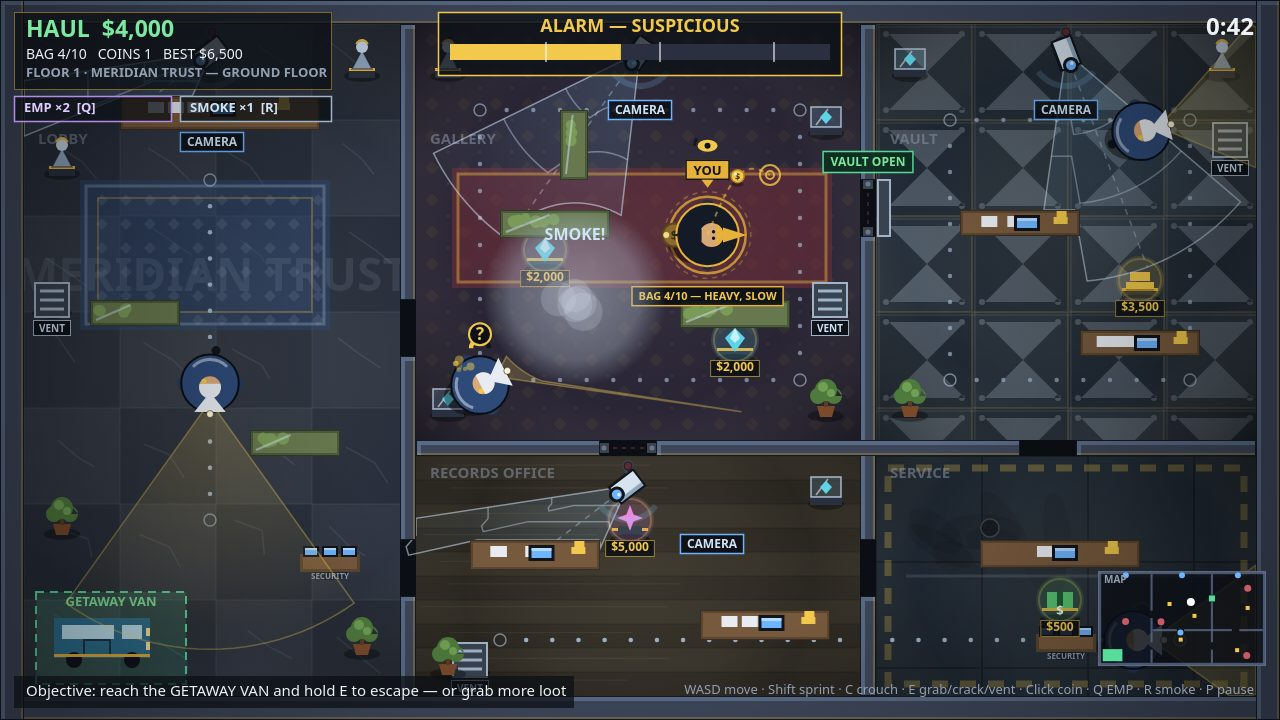
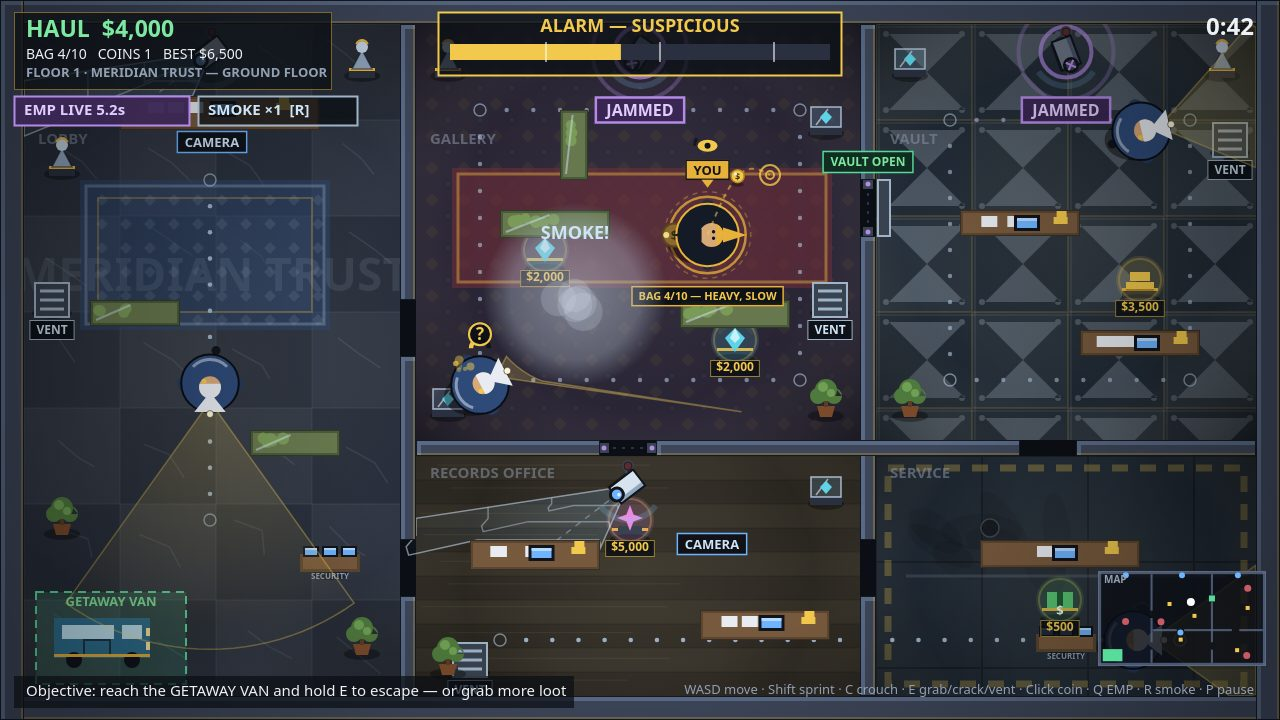
VAULT ZERO round 9: EMP proven on the cover (EMP LIVE 5.2s chip, gallery+vault cameras JAMMED with big violet pills and pulse rings while lobby/office cameras still sweep, smoke still in effect, loot tags clear), getaway payoff restored without a modal (extract restaged to the payoff moment: vent-sl

diff --git a/game/src/shots.js b/game/src/shots.js
@@ -37,7 +37,10 @@ function aimCamera(world, index, offset) {
  * toward a gem case, heavy bag on his back, a coin arcing toward the gallery guard who
  * is already investigating the first coin ("?" up), cameras sweeping overhead with their
  * cones pointed away, loot on the vault racks, and the alarm meter at SUSPICIOUS.
- * The thief is in NO cone: he reads as crossing, not caught.
+ * The thief is in NO cone: he reads as crossing, not caught. Both tools are proven
+ * IN EFFECT in this one frame: the smoke cloud hangs on the crossing, and the EMP
+ * jammer is LIVE — the gallery and vault cameras wear big JAMMED pills with violet
+ * pulse rings while the lobby and office cameras still sweep.
  */
 function stageCover(world) {
   world.loadLevel(0);
@@ -78,6 +81,14 @@ function stageCover(world) {
   world.setAlarm(45);
   world.state.floaters = world.state.floaters.filter((f) => f.text === 'SMOKE!');
   run(world, 1);
+  // The EMP jammer fired to cover the crossing: the chip counts down (EMP LIVE
+  // 5.2s) and the two cameras watching the gallery/vault lanes are JAMMED — big
+  // violet pills, pulse rings, dead lenses — while the lobby and office cameras
+  // still sweep, so the frame keeps live camera cones AND the tool in effect.
+  world.setTools(1, 1);
+  world.fireEmp(5.2);
+  world.setCameraJammed(0, false); // lobby camera still sweeping
+  world.setCameraJammed(3, false); // office camera still sweeping
   return { screen: SCREEN_PLAY, best: 6500, rating: null };
 }
 
@@ -134,11 +145,13 @@ function stageCrack(world) {
 }
 
 /**
- * EXTRACT — the getaway in motion, on floor 2: the annex core cracked and emptied
- * ($14,000 in the bag), the EMP jammer LIVE — every camera JAMMED with violet pulse
- * rings, the doorway lasers dead grey — and the thief mid-vent-slip, emerging from
- * the west corridor grate (duct trail still drawn to the east grate he came from)
- * on his way to the van. Pure gameplay: tools proven in effect, no report panel.
+ * EXTRACT — the getaway payoff, on floor 2: the annex core cracked and emptied
+ * ($14,000 in the bag), the thief vent-slips from the east corridor to the west
+ * (duct trail + chevrons between the grates), fires the EMP jammer for the last
+ * leg — every camera JAMMED with violet pulse rings, the doorway lasers dead
+ * grey — and holds E at the GETAWAY VAN until the extraction completes. The
+ * frame is the payoff moment itself: thief at the van, CLEAN GETAWAY banner
+ * over live gameplay (haul secured + ghost rating), no report panel.
  */
 function stageExtract(world) {
   world.loadLevel(1);
@@ -152,6 +165,9 @@ function stageExtract(world) {
   // Guards held far off the west corridor, cones pointed away from the getaway line.
   world.setGuard(0, 640, 120, 0, 0.0, 'patrol'); // top corridor, cone east
   world.setGuard(1, 1130, 620, Math.PI, 0.0, 'patrol'); // bottom corridor, cone west (far east)
+  world.state.guards[1].wpIndex = 1; // waypoint at his feet: scans in place, never walks at the van
+  world.state.guards[1].scanBase = Math.PI;
+  world.state.guards[1].lookTimer = 99;
   world.setGuard(2, 150, 120, 0, 0.0, 'patrol'); // west guard pulled north, cone east
   world.state.guards[2].wpIndex = 0; // waypoint at his feet: scans in place, never walks at the thief
   world.state.guards[2].scanBase = 0;
@@ -161,16 +177,25 @@ function stageExtract(world) {
   world.state.guards[3].scanBase = Math.PI / 2;
   world.state.guards[3].lookTimer = 99;
   world.setGuard(4, 640, 300, -Math.PI / 2, 0.0, 'patrol'); // inside the core, cone north
-  // The EMP jammer fired for the getaway: cameras JAMMED, lasers dead, chip counting down.
-  world.setTools(1, 2);
-  world.fireEmp(6);
-  world.state.floaters.push({ x: 150, y: 300, text: 'EMP — CAMERAS JAMMED!', color: '#b48ae8', life: 1.4 });
   // Vent transit for real: tap E at the east corridor grate, slip to the west one.
   world.placePlayer(1228, 360, Math.PI);
   run(world, 1, HOLD); // the slip: duct trail + THROUGH THE VENT floater at the west grate
   run(world, 8, MOVE_EAST); // step clear of the west wall first (the grate hugs it)
-  run(world, 42, { mx: 0.5, my: 1, interact: false, crouch: false, sprint: false }); // mid-stride to the van
-  return { screen: SCREEN_PLAY, best: 14000, rating: null };
+  // Down the west corridor to the van, heavy bag and all.
+  for (let i = 0; i < 240 && world.state.player.y < 600; i += 1) {
+    world.step(STEP, { mx: 0.25, my: 1, interact: false, crouch: false, sprint: false });
+  }
+  // The EMP jammer fired for the getaway: cameras JAMMED, lasers dead, chip counting down.
+  world.setTools(1, 2);
+  world.fireEmp(6);
+  // Hold E at the van until the extraction channel completes — the payoff moment.
+  for (let i = 0; i < 300 && !world.state.extracted; i += 1) world.step(STEP, HOLD);
+  // Hold the evidence at full strength for the still: duct trail bright between
+  // the grates, both tool floaters up (the sim has stopped, so they hold).
+  world.setVentTrail(1228, 360, 52, 360);
+  world.state.floaters.push({ x: 150, y: 300, text: 'THROUGH THE VENT', color: '#cfe4f7', life: 1.4 });
+  world.state.floaters.push({ x: 150, y: 560, text: 'EMP — CAMERAS JAMMED!', color: '#b48ae8', life: 1.4 });
+  return { screen: SCREEN_PLAY, best: 14000, rating: world.ghostRating() };
 }
 
 export function stageShot(name, world) {

diff --git a/game/src/draw-hud.js b/game/src/draw-hud.js
@@ -100,21 +100,25 @@ export function drawHud(ctx, state, best) {
   text(ctx, `BAG ${p.weight}/${PLAYER.bagCapacity}   COINS ${p.coins}   BEST $${best.toLocaleString('en-US')}`, 26, 48, 14, PALETTE.text, 'left');
   text(ctx, state.level.name, 26, 67, 13, PALETTE.muted, 'left', true);
   // Gadget belt: the two limited tools, with their keys, under the haul box. A spent
-  // gadget greys out; a live EMP window counts down in violet.
+  // gadget greys out; a live EMP window counts down in violet. Chips are tall and
+  // the type is big — the EMP LIVE countdown is proof the tool works, so it must
+  // stay readable when the frame shrinks to a thumbnail.
   const chipY = 96;
+  const chipH = 30;
   const empLive = state.empTimer > 0;
-  ctx.fillStyle = empLive ? 'rgba(58,38,84,0.92)' : 'rgba(11,14,20,0.72)';
-  ctx.fillRect(14, chipY, 158, 26);
+  ctx.fillStyle = empLive ? 'rgba(58,38,84,0.95)' : 'rgba(11,14,20,0.72)';
+  ctx.fillRect(14, chipY, 176, chipH);
   ctx.strokeStyle = p.emp > 0 || empLive ? PALETTE.emp : 'rgba(147,160,180,0.4)';
-  ctx.lineWidth = 1.5;
-  ctx.strokeRect(14.5, chipY + 0.5, 157, 25);
-  text(ctx, empLive ? `EMP LIVE ${state.empTimer.toFixed(1)}s` : `EMP ×${p.emp}  [Q]`, 24, chipY + 6, 13,
+  ctx.lineWidth = 2;
+  ctx.strokeRect(14.5, chipY + 0.5, 175, chipH - 1);
+  text(ctx, empLive ? `EMP LIVE ${state.empTimer.toFixed(1)}s` : `EMP ×${p.emp}  [Q]`, 24, chipY + 7, 15,
     p.emp > 0 || empLive ? '#e2ccff' : PALETTE.muted, 'left', true);
   ctx.fillStyle = 'rgba(11,14,20,0.72)';
-  ctx.fillRect(180, chipY, 152, 26);
+  ctx.fillRect(198, chipY, 160, chipH);
   ctx.strokeStyle = p.smoke > 0 ? '#9fb4c8' : 'rgba(147,160,180,0.4)';
-  ctx.strokeRect(180.5, chipY + 0.5, 151, 25);
-  text(ctx, `SMOKE ×${p.smoke}  [R]`, 190, chipY + 6, 13, p.smoke > 0 ? '#cfe4f7' : PALETTE.muted, 'left', true);
+  ctx.lineWidth = 2;
+  ctx.strokeRect(198.5, chipY + 0.5, 159, chipH - 1);
+  text(ctx, `SMOKE ×${p.smoke}  [R]`, 208, chipY + 7, 15, p.smoke > 0 ? '#cfe4f7' : PALETTE.muted, 'left', true);
 
   // Centre-top: the alarm meter — the brief's required element, big and readable.
   const meterW = 380;
@@ -213,6 +217,30 @@ export function drawMinimap(ctx, state) {
   ctx.fill();
   ctx.textBaseline = 'top';
   text(ctx, 'MAP', mx + 6, my + 4, 10, PALETTE.muted, 'left', true);
+}
+
+/**
+ * The getaway payoff, as a compact banner over live gameplay (not a full panel):
+ * the moment the extraction channel completes, the haul is secured and the ghost
+ * rating is called — big enough to read at thumbnail size, small enough that the
+ * room, the van and the thief still own the frame.
+ */
+export function drawGetawayBanner(ctx, state, rating) {
+  // Anchored right of the gadget chips so the EMP LIVE countdown stays readable.
+  const x = 366;
+  const width = FIELD.width - x - 26;
+  const height = 84;
+  const y = 88;
+  ctx.fillStyle = 'rgba(11,20,16,0.92)';
+  ctx.fillRect(x, y, width, height);
+  ctx.strokeStyle = '#58dc9c';
+  ctx.lineWidth = 3;
+  ctx.strokeRect(x + 1, y + 1, width - 2, height - 2);
+  ctx.textBaseline = 'top';
+  text(ctx, `✓ CLEAN GETAWAY — HAUL SECURED $${state.player.haul.toLocaleString('en-US')}`,
+    x + width / 2, y + 10, 30, '#7de8a0', 'center', true);
+  text(ctx, `GHOST RATING: ${rating || '—'}  ·  TIME ${formatTime(state.elapsed)}  ·  DETECTIONS ${state.detections}  ·  PEAK ALARM ${Math.round(state.alarmPeak)}%`,
+    x + width / 2, y + 50, 16, PALETTE.text, 'center', true);
 }
 
 export function drawPanel(ctx, title, titleColor, lines, prompt) {

diff --git a/game/src/draw-actors.js b/game/src/draw-actors.js
@@ -131,13 +131,14 @@ export function drawCameras(ctx, state) {
     ctx.stroke();
     // EMP pulse rings: a jammed camera visibly broadcasts its own death — two
     // violet rings expanding from the housing on a loop while the window lasts.
+    // Sized to read at contact-sheet thumbnail scale, not just full-size.
     if (camera.jammed) {
       for (const off of [0, 0.5]) {
         const phase = (state.elapsed * 0.9 + off) % 1;
-        ctx.strokeStyle = `rgba(180,138,232,${(0.7 * (1 - phase)).toFixed(3)})`;
-        ctx.lineWidth = 3;
+        ctx.strokeStyle = `rgba(180,138,232,${(0.85 * (1 - phase)).toFixed(3)})`;
+        ctx.lineWidth = 4;
         ctx.beginPath();
-        ctx.arc(hx, hy, 16 + phase * 34, 0, Math.PI * 2);
+        ctx.arc(hx, hy, 18 + phase * 44, 0, Math.PI * 2);
         ctx.stroke();
       }
     }
@@ -217,17 +218,21 @@ export function drawCameraLabels(ctx, state) {
     // And clear of the thief himself, so his YOU tag never eats the pill text.
     if (state.player && Math.abs(state.player.x - lx) < 76 && Math.abs(state.player.y - 34 - ly) < 30) ly -= 36;
     ctx.textBaseline = 'middle';
-    ctx.font = `700 ${camera.jammed ? 13 : 12}px ${FONT}`;
+    // JAMMED gets the biggest pill on the field: the EMP's proof must survive
+    // shrinking to a contact-sheet thumbnail. CAMERA stays a notch smaller.
+    const fontSize = camera.jammed ? 16 : 13;
+    const pillH = camera.jammed ? 26 : 22;
+    ctx.font = `700 ${fontSize}px ${FONT}`;
     const pillText = camera.jammed ? 'JAMMED' : 'CAMERA';
-    const labelW = ctx.measureText(pillText).width + (camera.jammed ? 18 : 14);
-    ctx.fillStyle = camera.jammed ? 'rgba(58,38,84,0.92)' : camera.seeing ? 'rgba(90,20,28,0.9)' : 'rgba(11,14,20,0.85)';
-    ctx.fillRect(lx - labelW / 2, ly - 10, labelW, 20);
+    const labelW = ctx.measureText(pillText).width + (camera.jammed ? 22 : 16);
+    ctx.fillStyle = camera.jammed ? 'rgba(58,38,84,0.95)' : camera.seeing ? 'rgba(90,20,28,0.9)' : 'rgba(11,14,20,0.85)';
+    ctx.fillRect(lx - labelW / 2, ly - pillH / 2, labelW, pillH);
     ctx.strokeStyle = camera.jammed ? PALETTE.emp : camera.seeing ? '#ff4d5e' : '#6eb4ff';
-    ctx.lineWidth = 1.5;
-    ctx.strokeRect(lx - labelW / 2 + 0.5, ly - 9.5, labelW - 1, 19);
-    text(ctx, pillText, lx, ly + 1, 12, camera.jammed ? '#e2ccff' : camera.seeing ? '#ffb3ba' : '#cfe4f7', 'center', true);
+    ctx.lineWidth = camera.jammed ? 2.5 : 1.5;
+    ctx.strokeRect(lx - labelW / 2 + 0.5, ly - pillH / 2 + 0.5, labelW - 1, pillH - 1);
+    text(ctx, pillText, lx, ly + 1, fontSize, camera.jammed ? '#e2ccff' : camera.seeing ? '#ffb3ba' : '#cfe4f7', 'center', true);
     if (camera.seeing) {
-      text(ctx, '● REC', lx, ly + 20, 11, '#ff4d5e', 'center', true);
+      text(ctx, '● REC', lx, ly + pillH / 2 + 10, 11, '#ff4d5e', 'center', true);
     }
   }
 }
@@ -505,7 +510,7 @@ export function drawEffects(ctx, state) {
   ctx.textBaseline = 'bottom';
   for (const f of state.floaters) {
     ctx.globalAlpha = Math.min(1, f.life);
-    text(ctx, f.text, f.x, f.y, 16, f.color, 'center', true);
+    text(ctx, f.text, f.x, f.y, 18, f.color, 'center', true);
   }
   ctx.globalAlpha = 1;
 }

diff --git a/game/src/draw-rooms.js b/game/src/draw-rooms.js
@@ -337,27 +337,28 @@ export function drawPatrolRoutes(ctx, state) {
 
 export function drawVents(ctx, state) {
   // The duct path of the last vent slip: a dashed run between the paired grates
-  // with chevrons showing the direction travelled, fading over ~2 seconds.
+  // with chevrons showing the direction travelled, fading over ~2.6 seconds.
+  // Drawn fat and bright so the transit reads at thumbnail size.
   const trail = state.ventTrail;
   if (trail) {
     const alpha = Math.max(0, Math.min(1, trail.life / 1.8));
-    ctx.strokeStyle = `rgba(159,180,200,${(0.55 * alpha).toFixed(3)})`;
-    ctx.lineWidth = 3;
-    ctx.setLineDash([9, 7]);
+    ctx.strokeStyle = `rgba(159,180,200,${(0.85 * alpha).toFixed(3)})`;
+    ctx.lineWidth = 5;
+    ctx.setLineDash([12, 8]);
     ctx.beginPath();
     ctx.moveTo(trail.x1, trail.y1);
     ctx.lineTo(trail.x2, trail.y2);
     ctx.stroke();
     ctx.setLineDash([]);
     const ang = Math.atan2(trail.y2 - trail.y1, trail.x2 - trail.x1);
-    ctx.fillStyle = `rgba(207,228,247,${(0.8 * alpha).toFixed(3)})`;
-    for (const t of [0.3, 0.5, 0.7]) {
+    ctx.fillStyle = `rgba(207,228,247,${(0.95 * alpha).toFixed(3)})`;
+    for (const t of [0.2, 0.35, 0.5, 0.65, 0.8]) {
       const cx = trail.x1 + (trail.x2 - trail.x1) * t;
       const cy = trail.y1 + (trail.y2 - trail.y1) * t;
       ctx.beginPath();
-      ctx.moveTo(cx + Math.cos(ang) * 8, cy + Math.sin(ang) * 8);
-      ctx.lineTo(cx + Math.cos(ang + 2.5) * 7, cy + Math.sin(ang + 2.5) * 7);
-      ctx.lineTo(cx + Math.cos(ang - 2.5) * 7, cy + Math.sin(ang - 2.5) * 7);
+      ctx.moveTo(cx + Math.cos(ang) * 13, cy + Math.sin(ang) * 13);
+      ctx.lineTo(cx + Math.cos(ang + 2.5) * 11, cy + Math.sin(ang + 2.5) * 11);
+      ctx.lineTo(cx + Math.cos(ang - 2.5) * 11, cy + Math.sin(ang - 2.5) * 11);
       ctx.closePath();
       ctx.fill();
     }
@@ -384,14 +385,14 @@ export function drawVents(ctx, state) {
     }
     ctx.stroke();
     ctx.textBaseline = 'middle';
-    ctx.font = `700 10px ${FONT}`;
-    const labelW = ctx.measureText('VENT').width + 12;
+    ctx.font = `700 12px ${FONT}`;
+    const labelW = ctx.measureText('VENT').width + 14;
     ctx.fillStyle = 'rgba(11,14,20,0.88)';
-    ctx.fillRect(vent.x - labelW / 2, vent.y + 20, labelW, 16);
+    ctx.fillRect(vent.x - labelW / 2, vent.y + 20, labelW, 20);
     ctx.strokeStyle = PALETTE.ventSlat;
     ctx.lineWidth = 1;
-    ctx.strokeRect(vent.x - labelW / 2 + 0.5, vent.y + 20.5, labelW - 1, 15);
-    text(ctx, 'VENT', vent.x, vent.y + 29, 10, '#cfe4f7', 'center', true);
+    ctx.strokeRect(vent.x - labelW / 2 + 0.5, vent.y + 20.5, labelW - 1, 19);
+    text(ctx, 'VENT', vent.x, vent.y + 31, 12, '#cfe4f7', 'center', true);
   }
 }
 

diff --git a/game/src/world.js b/game/src/world.js
@@ -387,7 +387,7 @@ export function createWorld(random) {
         if (dest) {
           burst(p.x, p.y, '#9fb4c8', 10, 60);
           // The duct path stays drawn for a moment so the route taken reads on screen.
-          state.ventTrail = { x1: p.x, y1: p.y, x2: dest.x, y2: dest.y, life: 1.8 };
+          state.ventTrail = { x1: p.x, y1: p.y, x2: dest.x, y2: dest.y, life: 2.6 };
           p.x = dest.x;
           p.y = dest.y;
           burst(p.x, p.y, '#9fb4c8', 10, 60);
@@ -618,6 +618,11 @@ export function createWorld(random) {
     /** Stage the gadget belt (staging / tests): charges left, EMP window, a live cloud. */
     setTools(emp, smoke) { state.player.emp = emp; state.player.smoke = smoke; },
     fireEmp(seconds) { state.empTimer = seconds; for (const c of state.cameras) c.jammed = true; },
+    /** Stage one camera's jammed flag (staging / tests): lets a frame show the EMP
+     *  window killing some cameras while others still sweep. */
+    setCameraJammed(index, jammed) { const c = state.cameras[index]; if (c) c.jammed = jammed; },
+    /** Stage the vent-slip duct trail at full brightness (staging / tests). */
+    setVentTrail(x1, y1, x2, y2) { state.ventTrail = { x1, y1, x2, y2, life: 1.8 }; },
     dropSmoke(x, y, life) { state.smokeClouds.push({ x, y, life }); },
     /** Swing a vault door open outright (staging / tests). */
     openVault(doorIndex) {

diff --git a/game/src/render.js b/game/src/render.js
@@ -19,7 +19,7 @@ import {
   drawCameraLabels, drawCameras, drawEffects, drawGuards, drawPlayer, drawSmoke,
 } from './draw-actors.js';
 import {
-  SCREEN_OVER, SCREEN_PAUSED, SCREEN_TITLE, SCREEN_WIN, drawHud, drawPanel,
+  SCREEN_OVER, SCREEN_PAUSED, SCREEN_TITLE, SCREEN_WIN, drawGetawayBanner, drawHud, drawPanel,
 } from './draw-hud.js';
 
 export { SCREEN_OVER, SCREEN_PAUSED, SCREEN_PLAY, SCREEN_TITLE, SCREEN_WIN } from './draw-hud.js';
@@ -114,6 +114,9 @@ export function createRenderer(canvas) {
       ], next);
     } else {
       drawHud(ctx, state, best);
+      // The extraction just completed: the payoff banner rides over the live
+      // frame (the full report panel follows on the win screen).
+      if (state.extracted) drawGetawayBanner(ctx, state, rating);
     }
     ctx.setTransform(1, 0, 0, 1, 0, 0);
   }

diff --git a/main.ts b/main.ts
@@ -16,8 +16,9 @@
 // tumblers to swing it open (a jammed release raises the alarm). Tools at a cost:
 // distraction coins, an EMP jammer that kills cameras and lasers, and smoke bombs
 // that block sight. Screenshots live in screenshots/ (the first by name is the
-// cover: thief mid-crossing, guard cones, cameras, loot and the alarm meter in one
-// frame; the rest show the caught moment, the vault-cracking dial at 2/3 tumblers
+// cover: thief mid-crossing, guard cones, cameras — two of them JAMMED under a
+// live EMP window — loot and the alarm meter in one frame; the rest show the
+// caught moment, the vault-cracking dial at 2/3 tumblers
 // on the Sky Vault, and the clean getaway).
 //
 // Serve it locally with `node serve.ts`, then open http://localhost:8080.
